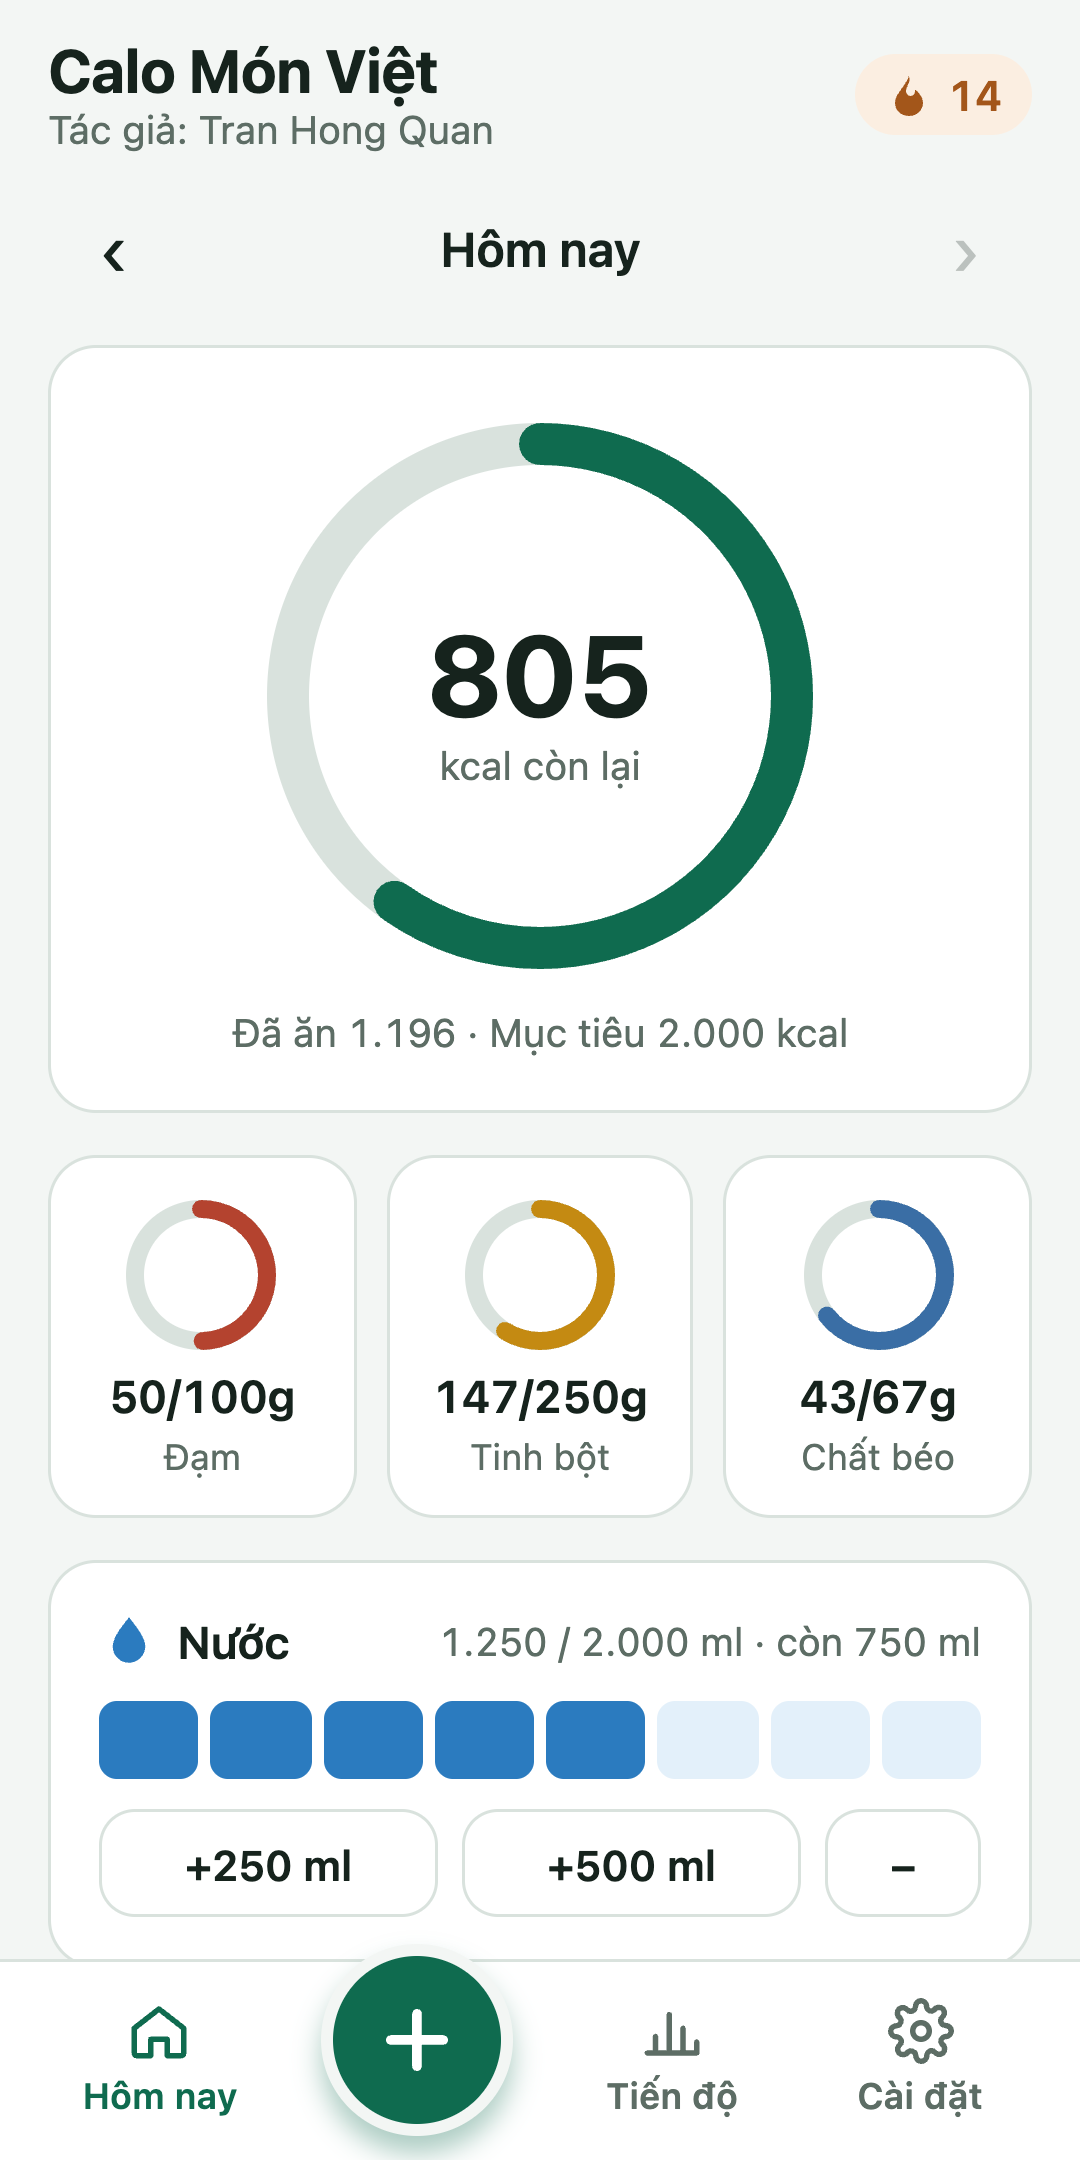
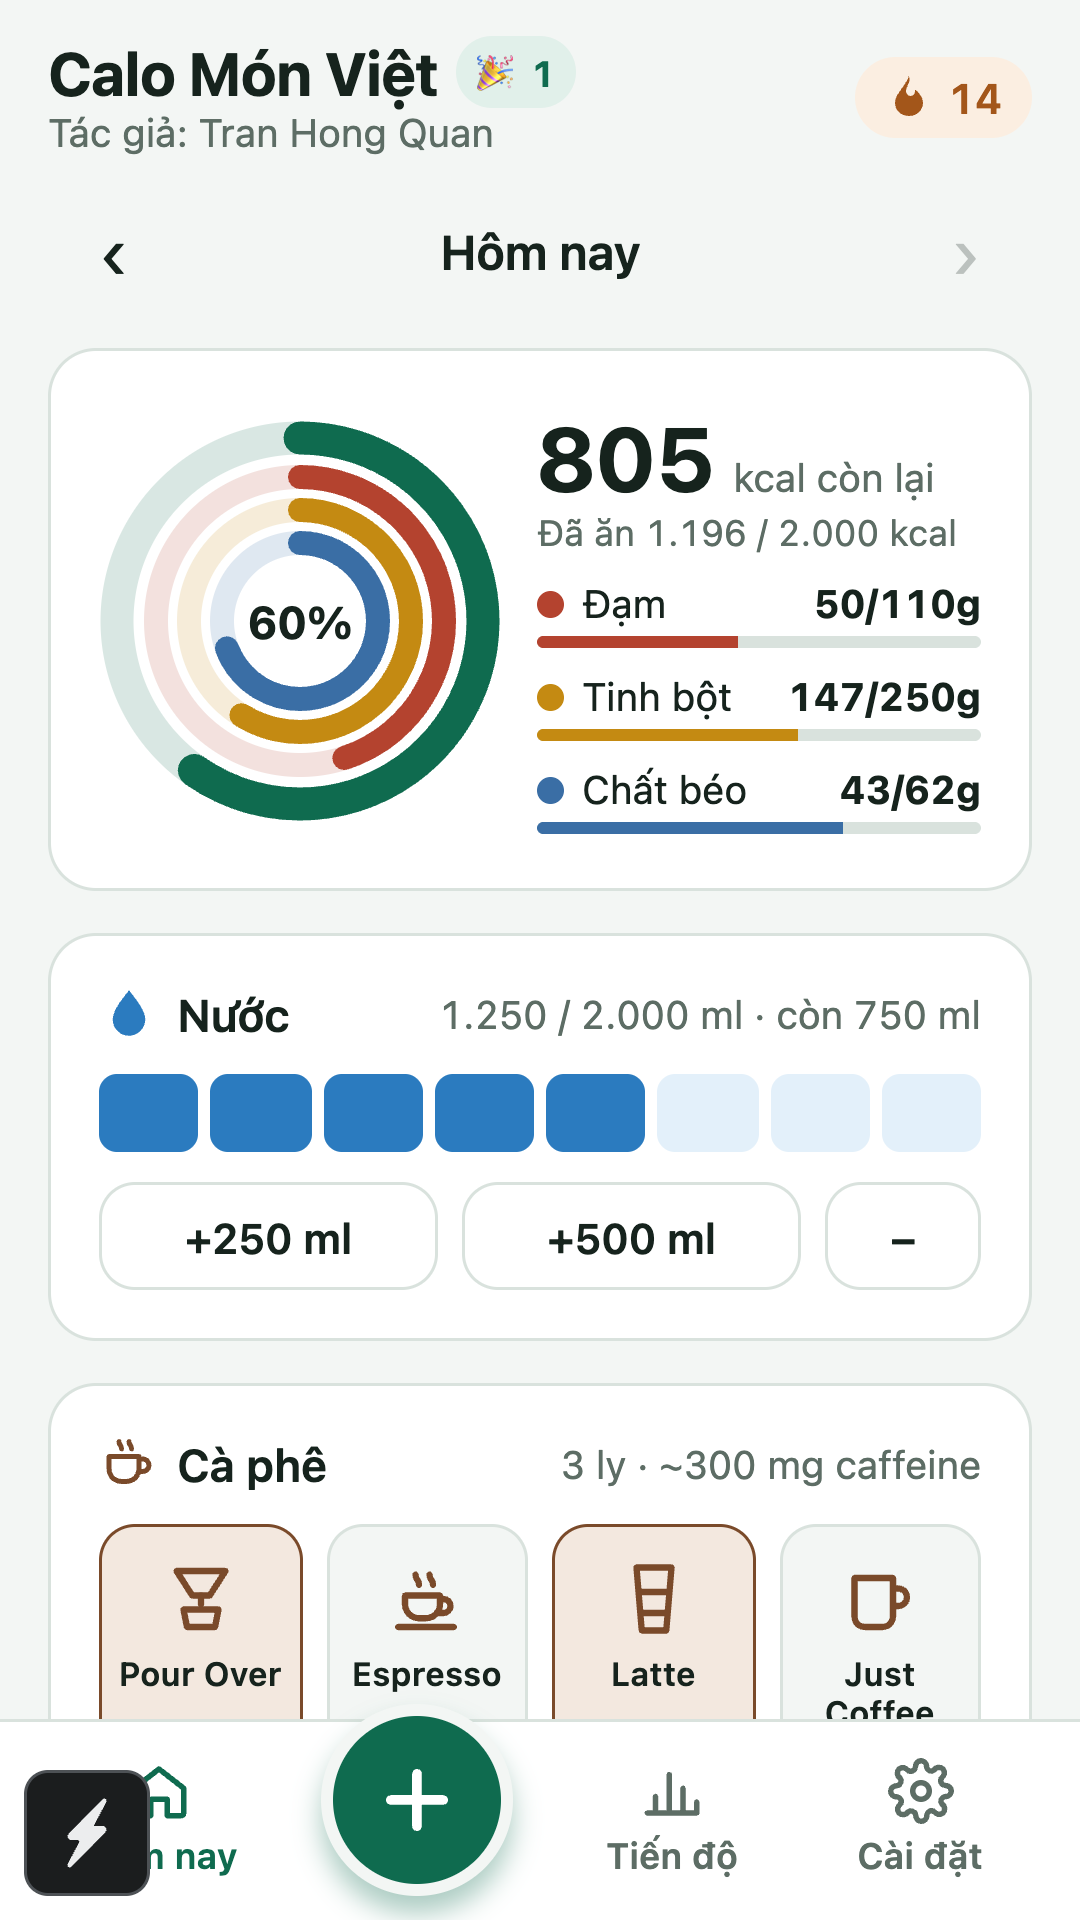
Sửa chữ bị cắt ở màn hẹp (biểu đồ vòng, ô cà phê); ảnh CH Play mới khổ 9:16 và mô tả cửa hàng cập nhật
- Biểu đồ vòng nhỏ lại để 'Tinh bột' không bị cắt ở màn 360px; tên loại cà phê được xuống 2 dòng.
- store/screens: 5 ảnh 1080×1920 (Play chỉ nhận 16:9/9:16): Hôm nay, So sánh 3 ngày, Xếp hạng bạn bè, Lời chúc, Tiến độ.
- store/listing.md: mô tả đầy đủ thêm các tính năng mới.

diff --git a/src/screens/home.tsx b/src/screens/home.tsx
@@ -35,8 +35,8 @@ export function Header() {
 }
 
 /** kích thước biểu đồ vòng gộp và [chỉ số, bán kính, độ dày] của từng vòng, từ ngoài vào trong */
-const RING = 150;
-const RINGS = [['k', 68, 12], ['p', 54, 9], ['c', 42, 9], ['f', 30, 9]] as const;
+const RING = 134;
+const RINGS = [['k', 61, 11], ['p', 48, 8], ['c', 37, 8], ['f', 26, 8]] as const;
 
 export default function Home() {
   const { data, viewDate, pending, lang, today: td } = useApp();
@@ -60,7 +60,7 @@ export default function Home() {
       </Row>
 
       <Pressable accessibilityRole="button" accessibilityHint={t.mcTap} onPress={() => openSheet('macros')}>
-        <Card style={{ flexDirection: 'row', alignItems: 'center', gap: 16, paddingVertical: 18 }}>
+        <Card style={{ flexDirection: 'row', alignItems: 'center', gap: 12, paddingVertical: 18 }}>
           {/* vòng ngoài: calo; trong: đạm, tinh bột, chất béo */}
           <View style={{ width: RING, height: RING }}>
             {RINGS.map(([key, r, w], i) => {
@@ -324,7 +324,7 @@ function CoffeeCard() {
               style={({ pressed }) => ({ flex: 1, alignItems: 'center', gap: 4, paddingVertical: 10, paddingHorizontal: 2, borderRadius: 12, borderWidth: 1,
                 borderColor: n ? c.coffee : c.line, backgroundColor: n ? c.coffeeSoft : c.bg, opacity: pressed ? 0.75 : 1 })}>
               <Icon name={COFFEE_ICON[k]} size={28} color={c.coffee} strokeWidth={1.8} />
-              <T numberOfLines={1} style={{ fontSize: 11, fontWeight: '600', color: c.fg }}>{t.coffeeTypes[k]}</T>
+              <T numberOfLines={2} style={{ fontSize: 11, fontWeight: '600', color: c.fg, textAlign: 'center', minHeight: 28 }}>{t.coffeeTypes[k]}</T>
               <T style={{ fontSize: 15, fontWeight: '700', color: n ? c.coffee : c.muted }}>{n}</T>
             </Pressable>
           );

diff --git a/store/listing.md b/store/listing.md
@@ -25,20 +25,29 @@ Chụp hoặc chọn ảnh món ăn, ứng dụng nhận diện món và ước 
 ✨ TƯ VẤN DINH DƯỠNG BẰNG AI
 AI xem 3 ngày ăn uống gần nhất và nhận xét: đủ năng lượng chưa, đủ chất chưa, nên thêm món gì. Nội dung chỉ mang tính chất tham khảo, không thay thế tư vấn y tế.
 
-🍜 BẢNG MÓN VIỆT SẴN CÓ
-Không có mạng vẫn ghi được: chọn món trong bảng, chỉnh số gram, ứng dụng tự tính dinh dưỡng.
+🎯 MỤC TIÊU CALO, ĐẠM, TINH BỘT, CHẤT BÉO
+Biểu đồ vòng cho biết hôm nay còn bao nhiêu kcal và từng chất so với mục tiêu bạn tự đặt. Thẻ so sánh 3 ngày chấm điểm và cho biết ngày nào ăn uống tối ưu nhất.
 
-🎯 MỤC TIÊU MỖI NGÀY
-Vòng calo cho biết hôm nay còn bao nhiêu kcal, cùng tỉ lệ đạm – tinh bột – chất béo. Chuỗi ngày ghi liên tục giúp bạn giữ thói quen.
+🍽 6 BỮA & NHẮC GIỜ ĂN
+Bữa sáng, trưa, tối và 3 bữa phụ. Hẹn giờ nhắc từng bữa, nhắc tổng kết mỗi tối – bữa nào đã ghi thì không nhắc nữa.
 
-💧 NHẮC UỐNG NƯỚC
-Ghi nước theo cốc 250 ml, đặt mục tiêu mỗi ngày và nhận nhắc nhở theo khung giờ bạn chọn. Uống đủ thì ứng dụng tự ngừng nhắc trong ngày.
+💧 NƯỚC & ☕ CÀ PHÊ
+Ghi nước theo cốc, đặt mục tiêu và nhận nhắc nhở. Ghi cà phê theo ly (Pour Over, Espresso, Latte, Just Coffee), ước tính caffeine, nhắc 4 giờ sau ly gần nhất.
 
-📈 TIẾN ĐỘ & BÁO CÁO PDF
-Biểu đồ calo 7, 14, 30 hoặc 90 ngày, chia theo đạm, tinh bột, chất béo. Xuất báo cáo PDF để lưu trữ hoặc gửi bác sĩ, huấn luyện viên.
+👥 SO SÁNH VỚI BẠN BÈ
+Quét mã QR của nhau để xem bảng xếp hạng ăn uống 3 ngày, TOP 1-2-3, và tạo ảnh chia sẻ lên Instagram, Facebook.
+
+🎨 ẢNH MÓN ĂN CÓ FILTER & HASHTAG
+5 filter, 5 bố cục (cả Story 9:16), tự thêm tên món, calo, dinh dưỡng và hashtag để đăng mạng xã hội.
+
+🏆 LỜI CHÚC THÀNH TÍCH
+Ăn khoẻ, uống đủ nước, giữ phong độ nhiều ngày liền… chạm vào tên ứng dụng để nhận lời chúc.
+
+📈 TIẾN ĐỘ, BÁO CÁO & SAO LƯU
+Biểu đồ calo 7–90 ngày, xuất báo cáo PDF; sao lưu và khôi phục bằng tệp .json hoặc .pdf.
 
 🔒 DỮ LIỆU CỦA BẠN Ở TRÊN MÁY
-Không cần tạo tài khoản, không quảng cáo, không theo dõi. Nhật ký ăn uống chỉ lưu trên điện thoại; bạn có thể sao lưu và khôi phục bằng tệp.
+Không cần tạo tài khoản, không quảng cáo, không theo dõi. Nhật ký ăn uống chỉ lưu trên điện thoại.
 
 Lưu ý: số liệu dinh dưỡng là ước tính để tham khảo, không thay thế tư vấn của bác sĩ hay chuyên gia dinh dưỡng.
 ```
